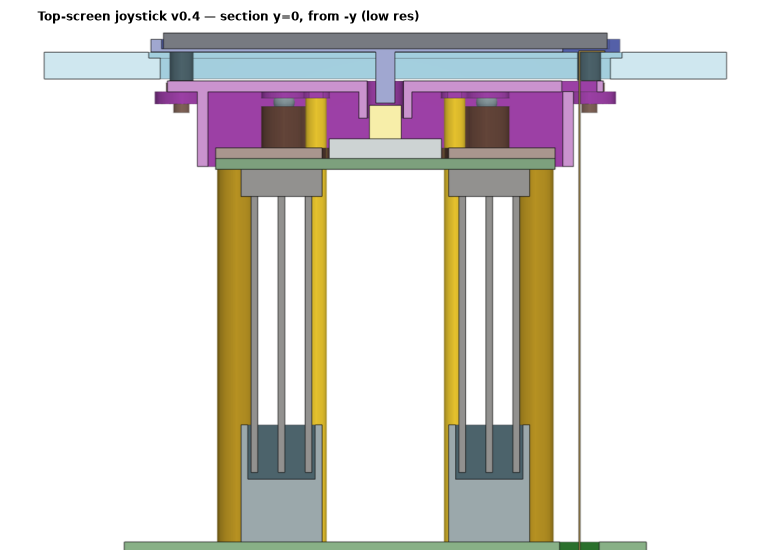
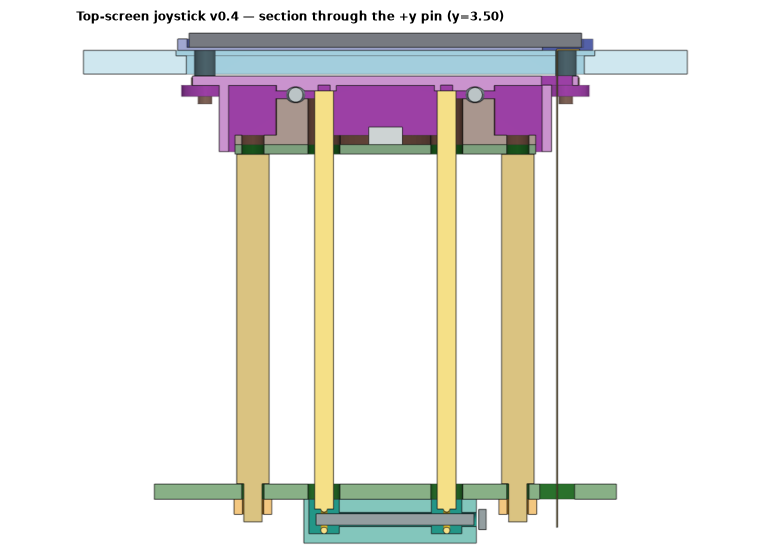
joystick v0.4: rear spring anchor and side-entry cross pins
The four hold-downs no longer reach the back panel. They end just
behind the main PCB on a glued rear anchor, two pins along X, each
through one pair of hooks. Force stays 0.5 N.

diff --git a/cad/joystick-param/jsparam/checks.py b/cad/joystick-param/jsparam/checks.py
@@ -127,8 +127,8 @@ def run(D, P):
     # 6 hold-down springs, kept
     sm = D["spr_bore"] / 2 - D["spr_d"] / 2 - D["slide"]
     row("hold-down spring vs bore at full slide", sm, f">= {T['spring_min']}", sm >= T["spring_min"],
-        f"Ø{D['spr_d']:g} in Ø{D['spr_bore']:g}; {len(sprs)} x {D['spr_f']:g} N, length {D['spr_len']:.1f} "
-        f"(hook z {D['spr_z1']:.2f} + PCB {D['pcb_t']:g} + back panel {D['back_panel']:g} [A])")
+        f"Ø{D['spr_d']:g} in Ø{D['spr_bore']:g}; {len(sprs)} x {D['spr_f']:g} N, installed {D['spr_len']:.1f} mm "
+        f"(was {D['spr_len_was']:.1f} to the back panel). Free {D['spr_free']:.1f}, stretch {D['spr_ext']:.1f}")
     sg = min(s.distance_to(plate) for s in sprs)
     row("hold-down spring vs plate (rest)", sg, ">= 0.3", sg >= 0.3 - 1e-6, "hook boss is slotted so the eye can be swapped")
     row("compression spring clear of the hold-downs", min(c.distance_to(s) for c in css for s in sprs),
@@ -162,6 +162,32 @@ def run(D, P):
         f"four nuts, across flats {D['nut']['af']:.1f}. No second screw on this end")
     row("nut clear of the hold-down springs", min(n.distance_to(s) for n in nuts for s in sprs), ">= 1.0",
         min(n.distance_to(s) for n in nuts for s in sprs) >= 1.0)
+    ra = P["rear spring anchor (printed)"]
+    pins = [P[n] for n in P if n.startswith("cross pin")]
+    row("rear anchor glued to the PCB back", ra.distance_to(pcb), "0.01-0.05",
+        0.01 <= ra.distance_to(pcb) <= 0.05,
+        f"bond outline {D['ra_bond']:.0f} mm², wall {D['ra_wall']:.1f}, volume {ra.volume/1000:.2f} cm³")
+    row("rear anchor clear of the M2 nuts", min(ra.distance_to(n) for n in nuts), ">= 1.0",
+        min(ra.distance_to(n) for n in nuts) >= 1.0,
+        "the anchor stops inboard of the studs. Nuts stay reachable")
+    row("lower hooks just behind the PCB", -D["pcb_t"] - D["z_pin"], "1.5-4.0",
+        1.5 <= -D["pcb_t"] - D["z_pin"] <= 4.0,
+        f"pin axis z {D['z_pin']:.2f}, PCB back z {-D['pcb_t']:.2f}")
+    row("hold-down force unchanged", D["spr_f"], "0.50", abs(D["spr_f"] - 0.5) < 1e-9,
+        f"rate {D['spr_rate']:.3f} N/mm over {D['spr_ext']:.1f} mm stretch. "
+        f"Length {D['spr_len_was']:.1f} → {D['spr_len']:.1f} mm")
+    row("two pins, each through a pair", len(pins), "2", len(pins) == 2 and len(sprs) == 4,
+        f"Ø{D['pin_d']:.2f} x {D['pin_x1'] - D['pin_x0']:.1f} mm, along X, at y ±{D['spr_y']:.2f}")
+    row("pin slides in the bore", min(p.distance_to(ra) for p in pins), ">= 0.10",
+        min(p.distance_to(ra) for p in pins) >= 0.10,
+        f"bore Ø{D['pin_bore']:.2f} over pin Ø{D['pin_d']:.2f}")
+    row("pin clears the hook eye", min(p.distance_to(s) for p in pins for s in sprs), ">= 0.10",
+        min(p.distance_to(s) for p in pins for s in sprs) >= 0.10,
+        f"eye wire Ø{D['eye_wire']:.2f}, radial gap {D['eye_clear']:.2f}. Pull the hook on, then push the pin")
+    mouth_open = not ra.is_inside((D["ra_x1"] - 0.15, D["spr_y"], D["z_pin"]))
+    blind = ra.is_inside((D["ra_x0"] + 0.4, D["spr_y"], D["z_pin"]))
+    row("pin mouth open, far end stopped", 1.0 if mouth_open and blind else 0.0, "open",
+        mouth_open and blind, "push in from +x. The -x end is a 1 mm wall")
     row("stud clears the PCB hole", (D["drill_m2"] - D["stud_d"]) / 2, ">= 0.15",
         (D["drill_m2"] - D["stud_d"]) / 2 >= 0.15, f"Ø{D['stud_d']:.1f} stud in the Ø{D['drill_m2']:.1f} hole")
     row("standoff vs plate (screw through both)", min(s.distance_to(plate) for s in stands), ">= 0.5",

diff --git a/cad/joystick-param/jsparam/parts.py b/cad/joystick-param/jsparam/parts.py
@@ -19,6 +19,10 @@ def cbox(w, h, z0, z1, x=0.0, y=0.0):
 def cyl(d, z0, z1, x=0.0, y=0.0):
     return Pos(x, y, z0) * Cylinder(d / 2, z1 - z0, align=A)
 
+def cyl_x(d, x0, x1, y=0.0, z=0.0):
+    """Cylinder along X, from x0 to x1."""
+    return Pos((x0 + x1) / 2, y, z) * Rot(0, 90, 0) * Cylinder(d / 2, abs(x1 - x0))
+
 def hex_at(af, z0, z1, x=0.0, y=0.0):
     """Hex prism, across-flats `af`. A flat faces +y so the wrench flat is parallel to the PCB edge."""
     r = (af / 2) / math.cos(math.radians(30))
@@ -120,6 +124,30 @@ def faceplate(D):
               D["z_fp1"] - D["fp_rebate"], D["z_fp1"] + 0.05)
     return p
 
+def rear_anchor(D):
+    """Printed bar glued to the PCB back. Two pin bores along X, open on +x, each through one pair of hooks.
+    A slot over each spring lets the hook be pulled down onto the pin with pliers."""
+    b = box(D["ra_x0"], D["ra_x1"], D["ra_y0"], D["ra_y1"], D["ra_z0"], D["ra_z1"])
+    sw = D["ra_slot"]
+    for y in D["pin_y"]:
+        b -= cyl_x(D["pin_bore"], D["ra_x0"] + D["ra_wall"], D["ra_x1"] + 0.05, y, D["z_pin"])
+        for x in (D["spr_x"], -D["spr_x"]):
+            b -= box(x - sw / 2, x + sw / 2, y - sw / 2, y + sw / 2, D["z_pin"] - D["eye_ro"], D["ra_z1"] + 0.05)
+    return b
+
+def hold_down(D, x, y):
+    """Spring body plus the lower hook eye. The eye clears the cross pin so the pin can be pushed through."""
+    top = D["z_pin"] + D["eye_major"]
+    body = cyl(D["spr_d"], top - 0.05, D["spr_z1"], x, y)
+    eye = Pos(x, y, D["z_pin"]) * Rot(0, 90, 0) * Torus(D["eye_major"], D["eye_minor"])
+    return body + eye
+
+def cross_pin(D, y):
+    """Shaft along X through both hooks at this y, with a head outside the +x mouth."""
+    shaft = cyl_x(D["pin_d"], D["pin_x0"], D["pin_x1"], y, D["z_pin"])
+    head = cyl_x(D["pin_head_d"], D["ra_x1"] + 0.25, D["ra_x1"] + 0.25 + D["pin_head_t"], y, D["z_pin"])
+    return shaft + head
+
 def insert(D, x, y):
     """Slip-fit model of the heat-set insert. The real one is an interference fit; that is not a solid overlap."""
     s = cyl(D["ins_od_model"], D["z_ins0"], D["z_seat"] - 0.02, x, y)
@@ -186,6 +214,9 @@ def build(D):
         box(fx - t / 2, fx + t / 2, -D["fpc_w"] / 2, D["fpc_w"] / 2, -D["pcb_t"] - 3.0, z_run + t)
         + box(min(fx, S["w"] / 2 - 0.4) - t / 2, max(fx, S["w"] / 2 - 0.2), -D["fpc_w"] / 2, D["fpc_w"] / 2, z_run, z_run + t)
     )
+    out["rear spring anchor (printed)"] = rear_anchor(D)
+    for i, y in enumerate(D["pin_y"]):
+        out[f"cross pin {i + 1}"] = cross_pin(D, y)
     for i, (x, y) in enumerate(D["springs"]):
-        out[f"hold-down spring {i + 1}"] = cyl(D["spr_d"], -D["pcb_t"] - 6.0, D["spr_z1"], x, y)
+        out[f"hold-down spring {i + 1}"] = hold_down(D, x, y)
     return out

diff --git a/cad/joystick-param/jsparam/params.py b/cad/joystick-param/jsparam/params.py
@@ -93,8 +93,14 @@ P = dict(
     spr_d=2.0,              # [A]
     spr_bore=3.4,           # [A]
     spr_boss=(2.6, 0.6),    # [A] hook boss under the carrier: Ø, height
-    spr_f=0.5,              # [Ed] N each
-    back_panel=22.65,       # [A] v0.2's derived back-panel depth. Still unknown; the length follows the hook
+    spr_f=0.5,              # [Ed] N each, kept at the new shorter length
+    spr_ext=8.0,            # [A] extension at rest, mm. Free length is installed length minus this
+    pin_d=1.2,              # [A] push-in cross pin, stainless or music wire
+    pin_clear=0.30,         # [A] bore diameter over the pin, so it slides while pliers hold the hook
+    eye_wire=0.70,          # [A] hook wire diameter
+    eye_clear=0.20,         # [A] radial gap from the pin to the hook wire
+    ra_wall=1.0,            # [S] rear-anchor wall, the print minimum
+    back_panel=22.65,       # [A] old back-panel depth. The springs no longer reach it
     # ---- check targets. derive() overwrites the ones that are process tolerances ----
     tgt=dict(stem_cup_min=0.20, gap_min=0.20, cable_min=0.25, spring_min=0.10,
              knob_min=0.50, board_min=0.25, mate_min=3.5, mate_max=6.5),
@@ -385,7 +391,33 @@ def derive(P_):
     D["hole_x1"] = D["slot_x"][1] + D["slide"] + D["hole_extra"]
     D["hole_hy"] = D["slot_hy"] + D["slide"] + D["hole_extra"]
     D["spr_z1"] = D["z_c0"] - D["spr_boss"][1]
-    D["spr_len"] = D["spr_z1"] + D["pcb_t"] + D["back_panel"]
+    # lower hooks end just behind the PCB. Two pins run along X, one per Y pair.
+    pr = D["pin_d"] / 2.0
+    wr = D["eye_wire"] / 2.0
+    major = pr + D["eye_clear"] + wr
+    D["eye_major"] = major
+    D["eye_minor"] = wr
+    D["eye_ro"] = major + wr
+    D["pin_bore"] = D["pin_d"] + D["pin_clear"]
+    D["z_pin"] = -D["pcb_t"] - 0.02 - D["ra_wall"] - major
+    D["spr_len"] = D["spr_z1"] - D["z_pin"]
+    D["spr_len_was"] = D["spr_z1"] + D["pcb_t"] + D["back_panel"]
+    D["spr_free"] = D["spr_len"] - D["spr_ext"]
+    D["spr_rate"] = D["spr_f"] / D["spr_ext"]
+    wall = D["ra_wall"]
+    D["ra_x0"] = -D["spr_x"] - major - wall
+    D["ra_x1"] = D["spr_x"] + major + 2.0
+    D["ra_y0"] = -D["spr_y"] - D["eye_ro"] - wall
+    D["ra_y1"] = D["spr_y"] + D["eye_ro"] + wall
+    D["ra_z1"] = -D["pcb_t"] - 0.02
+    D["ra_z0"] = D["z_pin"] - D["eye_ro"] - wall
+    D["pin_x0"] = D["ra_x0"] + wall + 0.3
+    D["pin_x1"] = D["ra_x1"] - 0.25
+    D["pin_head_d"] = D["pin_d"] * 1.8
+    D["pin_head_t"] = 0.8
+    D["pin_y"] = (D["spr_y"], -D["spr_y"])
+    D["ra_slot"] = D["spr_d"] + 1.2
+    D["ra_bond"] = (D["ra_x1"] - D["ra_x0"]) * (D["ra_y1"] - D["ra_y0"])
     D["board_xy"] = (D["axis_bx"], D["axis_by"] - D["place_y"])
     return D
 

diff --git a/cad/joystick-param/jsparam/render.py b/cad/joystick-param/jsparam/render.py
@@ -25,7 +25,9 @@ GROUPS = [
     ("compression springs (Lee CI 008B)", "#546e7a", lambda n: n.startswith("compression spring")),
     ("top screen 1.64\" AMOLED", "#101828", lambda n: n.startswith("top screen")),
     ("screen FPC [A]", "#ffb300", lambda n: n.startswith("screen FPC")),
-    ("hold-down extension springs (to back panel)", "#fdd835", lambda n: n.startswith("hold-down")),
+    ("rear spring anchor (glued to PCB back)", "#26a69a", lambda n: n.startswith("rear spring")),
+    ("cross pins (two, side entry)", "#455a64", lambda n: n.startswith("cross pin")),
+    ("hold-down extension springs", "#fdd835", lambda n: n.startswith("hold-down")),
 ]
 def group_of(n):
     for i, (_, _, f) in enumerate(GROUPS):
@@ -151,15 +153,16 @@ def _centre_z(D):
     return (0.0, 0.0, D["scr_top"] * 0.55)
 
 def section_preview(D, P, png):
-    """Low-resolution section on y = 0, from -y. The view Ed marks up. Not the full sheet."""
+    """Low-resolution section through the +y cross pin (plane y = spr_y), from -y."""
     tmp = tempfile.mkdtemp()
-    zc = _centre_z(D)
-    rem = Pos(0, -BIG / 2, 0) * Box(BIG, BIG, BIG)
-    m = _meshes(P, rem, [((0, 0, 0), (0, 1, 0))], tol=0.15)
-    im = _shot(m, (0, -1, 0), (0, 0, 1), os.path.join(tmp, "s.png"), (1100, 800), centre=zc, scale=27.0)
+    y = D["spr_y"]
+    rem = Pos(0, y - BIG / 2, 0) * Box(BIG, BIG, BIG)
+    m = _meshes(P, rem, [((0, y, 0), (0, 1, 0))], tol=0.12)
+    im = _shot(m, (0, -1, 0), (0, 0, 1), os.path.join(tmp, "s.png"), (1100, 800),
+               centre=(0.0, y, 18.0), scale=32.0)
     fig, ax = plt.subplots(figsize=(11, 8), dpi=70)
     ax.imshow(im); ax.axis("off")
-    ax.set_title(f"Top-screen joystick {D['version']} — section y=0, from -y (low res)", fontsize=12, weight="bold", loc="left")
+    ax.set_title(f"Top-screen joystick {D['version']} — section through the +y pin (y={y:.2f})", fontsize=12, weight="bold", loc="left")
     fig.tight_layout(); fig.savefig(png); plt.close(fig)
 
 def preview(D, P, png):
@@ -256,7 +259,8 @@ def _explode(P, D):
         "top screen": 62, "screen carrier": 46, "compression spring": 36, "joystick carrier": 24,
         "grub screw": 16, "brass insert": 16, "ball ": 14,
         "seat plate": 10, "SW1": 10, "joystick daughterboard": 6, "header ": 6,
-        "brass standoff": 0, "M2 nut": -10, "socket ": 0, "main PCB": 0, "screen FPC": 8, "hold-down": 0,
+        "brass standoff": 0, "M2 nut": -10, "socket ": 0, "main PCB": 0, "screen FPC": 8,
+        "hold-down": -6, "rear spring": -14, "cross pin": -14,
     }
     out = {}
     for n, s in P.items():

diff --git a/cad/assemblies/joystick-v0.4/REPORT.md b/cad/assemblies/joystick-v0.4/REPORT.md
@@ -1,5 +1,7 @@
 # Joystick v0.4
 
+The four hold-down springs stop just behind the main PCB. Installed length **45.4 mm** (was 65.9 mm to the back panel). Free length **37.4 mm**, stretch **8.0 mm**, force still **0.50 N** each (0.062 N/mm). A printed rear anchor, **18.3 × 12.0 × 4.65 mm**, **0.83 cm³**, bond outline **220 mm²**, is glued to the PCB back. Two Ø1.20 mm cross pins, shaft 16.7 mm, run along X at y ±3.50. Each pin passes both hooks on that row. The bore is Ø1.50, open on +x, stopped by a 1 mm wall on −x. The anchor clears the M2 nuts by **2.4 mm**.
+
 Each Ø2 ball sits in a pair of shallow spherical cups, one in the seat post and one in the carrier. Cup radius **1.396 mm** (1.396 × the ball radius), depth **0.60 mm** (0.30 × the diameter). The cups still hold the ball out to **0.65 mm** of carrier travel; the slide is 0.45 mm, so the margin is **0.20 mm**. The wider posts put the balls at **(±9.51, ±4.14)**.
 
 The module rests on the case faceplate. The bezel is a 1.2 mm lip (44.02 × 29.14) on a 2.5 mm faceplate proxy. The carrier, springs, switch, daughterboard and standoffs are below that plate.
